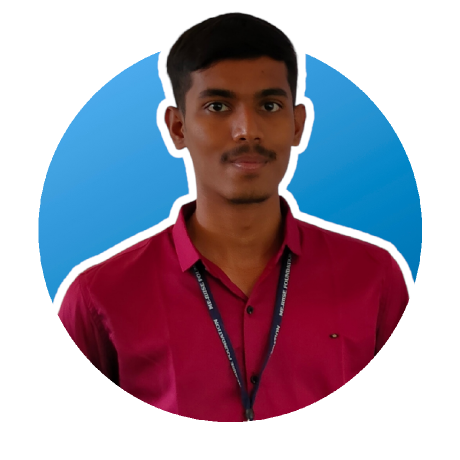
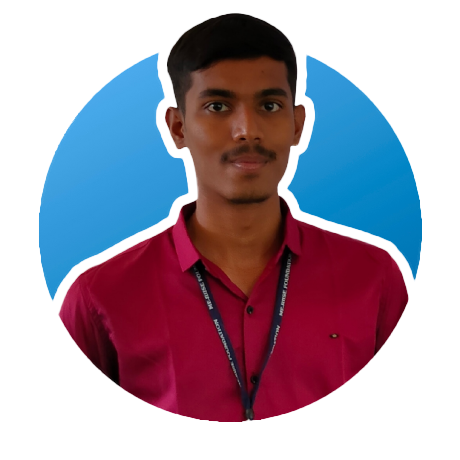
added transparent dp

diff --git a/src/App.jsx b/src/App.jsx
@@ -8,6 +8,7 @@ function App() {
   const [count, setCount] = useState(0);
 
   return (
+    <>
     <div className="min-h-screen flex flex-col">
       <div>nav</div>
       <HeroHighlight>
@@ -24,19 +25,22 @@ function App() {
             duration: 0.5,
             ease: [0.4, 0.0, 0.2, 1],
           }}
-          className="flex gap-4 md:gap-20 items-center text-5xl font-bold text-neutral-700 dark:text-white leading-snug sm:leading-relaxed  mx-auto flex-col-reverse md:flex-row sm:flex-row "
+          className="flex gap-4 sm:gap-20 items-center text-5xl font-bold text-neutral-700 dark:text-white leading-snug sm:leading-relaxed  mx-auto flex-col-reverse md:flex-row sm:flex-row "
           >
           <div className="flex-[1]">
             <p> Hello,<br></br>I am Ranjan</p>
            
           </div>
           <div className="">
-            <img className=" block rounded-full max-h-[200px]" src={dp}></img>
+            <img className=" block rounded-full max-h-[250px] bg-black" src={dp}></img>
           </div>
         </motion.h1>
       </HeroHighlight>
-      <div>nav</div>
     </div>
+    <div>
+      Hello
+    </div>
+    </>
   );
 }
 
